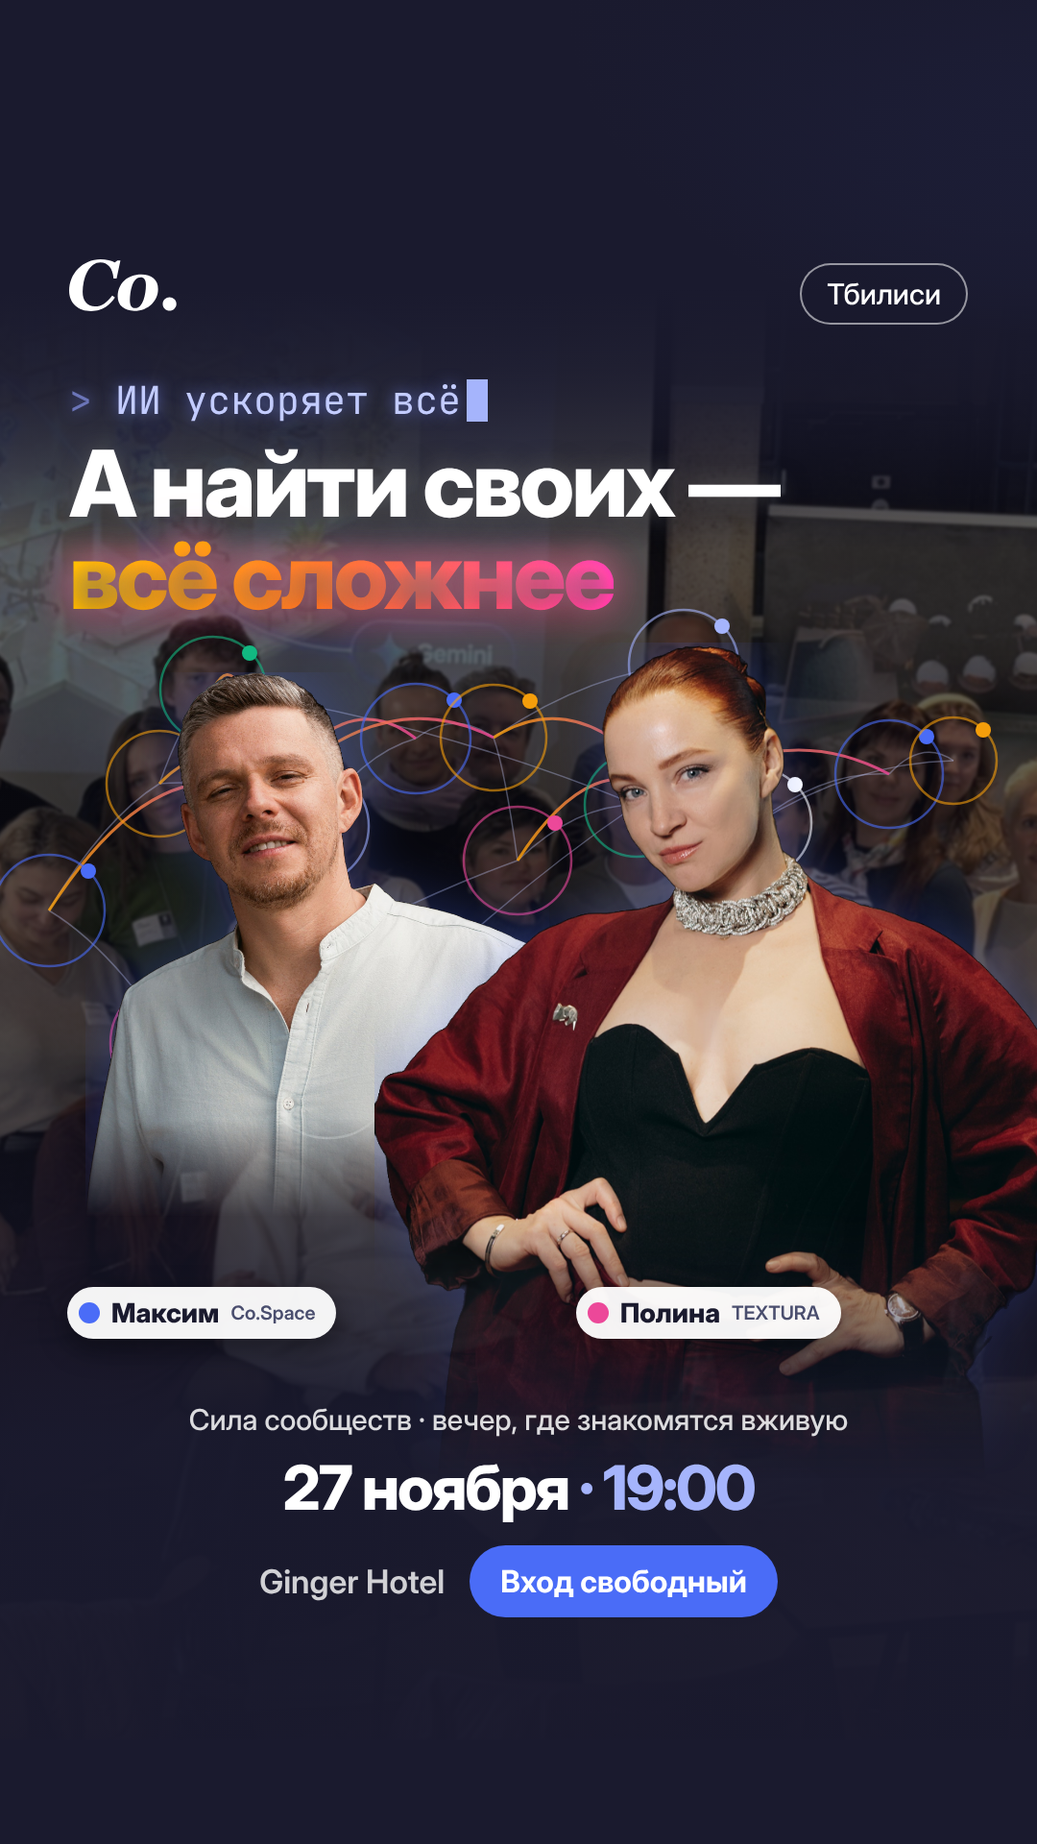
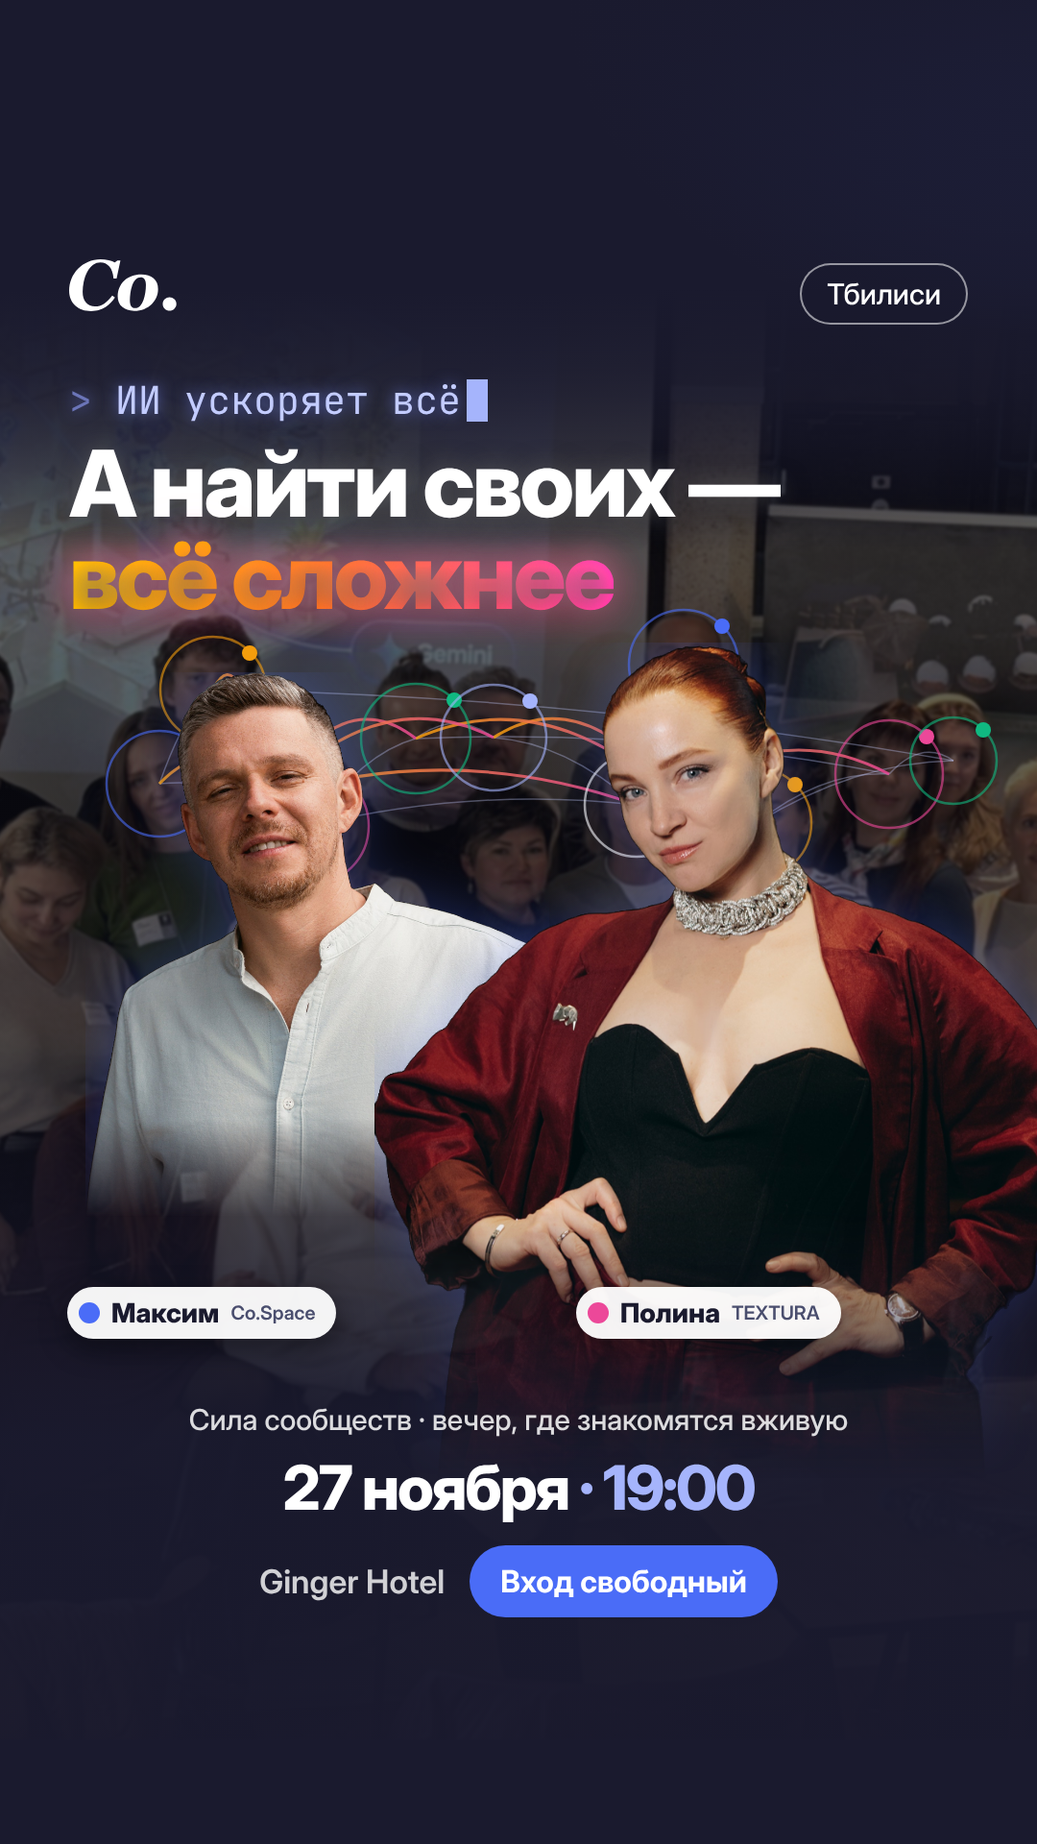
Убраны кружки за фигурами

diff --git a/creatives/src/poster/poster3-4x5.html b/creatives/src/poster/poster3-4x5.html
@@ -29,7 +29,7 @@ h1 em{font-style:normal;background:linear-gradient(90deg,#FFC21A 0%,#FF7A2F 45%,
 .place{font-size:34px;color:rgba(255,255,255,.8);font-weight:600}
 .cta{background:#4A6CF7;border-radius:44px;padding:18px 32px;font-size:32px;font-weight:700}
 </style></head><body><img class="bg" src="group.src.jpg"><div class="shade"></div>
-<svg class="net" width="1080" height="1350" viewBox="0 0 1080 1350"><defs><linearGradient id="gl" x1="0" x2="1"><stop offset="0" stop-color="#F59E0B"/><stop offset="1" stop-color="#EC4899"/></linearGradient></defs><path d="M227,477 Q275,515 323,612" stroke="#C7CEFF" stroke-width="1.5" fill="none" opacity=".35"/><path d="M323,612 Q376,539 428,526" stroke="#C7CEFF" stroke-width="1.5" fill="none" opacity=".35"/><path d="M896,561 Q928,524 960,547" stroke="#C7CEFF" stroke-width="1.5" fill="none" opacity=".35"/><path d="M65,696 Q126,731 188,827" stroke="#C7CEFF" stroke-width="1.5" fill="none" opacity=".35"/><path d="M529,646 Q587,589 646,591" stroke="#C7CEFF" stroke-width="1.5" fill="none" opacity=".35"/><path d="M646,591 Q706,570 765,609" stroke="#C7CEFF" stroke-width="1.5" fill="none" opacity=".35"/><path d="M188,827 Q264,811 341,855" stroke="#C7CEFF" stroke-width="1.5" fill="none" opacity=".35"/><path d="M174,570 Q201,494 227,477" stroke="#C7CEFF" stroke-width="1.5" fill="none" opacity=".35"/><path d="M188,827 Q358,706 529,646" stroke="#C7CEFF" stroke-width="1.5" fill="none" opacity=".35"/><path d="M505,525 Q599,458 693,452" stroke="#C7CEFF" stroke-width="1.5" fill="none" opacity=".35"/><path d="M323,612 Q332,704 341,855" stroke="#C7CEFF" stroke-width="1.5" fill="none" opacity=".35"/><path d="M227,477 Q437,504 646,591" stroke="#C7CEFF" stroke-width="1.5" fill="none" opacity=".35"/><path d="M341,855 Q494,693 646,591" stroke="#C7CEFF" stroke-width="1.5" fill="none" opacity=".35"/><path d="M65,696 Q120,603 174,570" stroke="#C7CEFF" stroke-width="1.5" fill="none" opacity=".35"/><path d="M646,591 Q670,492 693,452" stroke="#C7CEFF" stroke-width="1.5" fill="none" opacity=".35"/><path d="M693,452 Q729,501 765,609" stroke="#C7CEFF" stroke-width="1.5" fill="none" opacity=".35"/><path d="M765,609 Q862,548 960,547" stroke="#C7CEFF" stroke-width="1.5" fill="none" opacity=".35"/><path d="M428,526 Q466,495 505,525" stroke="#C7CEFF" stroke-width="1.5" fill="none" opacity=".35"/><path d="M174,570 Q249,561 323,612" stroke="#C7CEFF" stroke-width="1.5" fill="none" opacity=".35"/><path d="M765,609 Q831,555 896,561" stroke="#C7CEFF" stroke-width="1.5" fill="none" opacity=".35"/><path d="M505,525 Q517,555 529,646" stroke="#C7CEFF" stroke-width="1.5" fill="none" opacity=".35"/><path d="M690,580 Q668,520 646,591" stroke="url(#gl)" stroke-width="3" fill="none" opacity=".85"/><path d="M690,580 Q728,520 765,609" stroke="url(#gl)" stroke-width="3" fill="none" opacity=".85"/><path d="M690,580 Q691,392 693,452" stroke="url(#gl)" stroke-width="3" fill="none" opacity=".85"/><path d="M690,580 Q609,520 529,646" stroke="url(#gl)" stroke-width="3" fill="none" opacity=".85"/><path d="M690,580 Q597,465 505,525" stroke="url(#gl)" stroke-width="3" fill="none" opacity=".85"/><path d="M690,580 Q793,501 896,561" stroke="url(#gl)" stroke-width="3" fill="none" opacity=".85"/><path d="M290,580 Q307,520 323,612" stroke="url(#gl)" stroke-width="3" fill="none" opacity=".85"/><path d="M290,580 Q232,510 174,570" stroke="url(#gl)" stroke-width="3" fill="none" opacity=".85"/><path d="M290,580 Q259,417 227,477" stroke="url(#gl)" stroke-width="3" fill="none" opacity=".85"/><path d="M290,580 Q359,466 428,526" stroke="url(#gl)" stroke-width="3" fill="none" opacity=".85"/><path d="M290,580 Q397,465 505,525" stroke="url(#gl)" stroke-width="3" fill="none" opacity=".85"/><path d="M290,580 Q409,520 529,646" stroke="url(#gl)" stroke-width="3" fill="none" opacity=".85"/><circle cx="65" cy="696" r="55" fill="none" stroke="#4A6CF7" stroke-width="2.5" opacity=".6"/><circle cx="103" cy="657" r="8" fill="#4A6CF7"/><circle cx="174" cy="570" r="52" fill="none" stroke="#F59E0B" stroke-width="2.5" opacity=".6"/><circle cx="211" cy="534" r="8" fill="#F59E0B"/><circle cx="188" cy="827" r="62" fill="none" stroke="#EC4899" stroke-width="2.5" opacity=".6"/><circle cx="231" cy="783" r="8" fill="#EC4899"/><circle cx="227" cy="477" r="52" fill="none" stroke="#10B981" stroke-width="2.5" opacity=".6"/><circle cx="264" cy="441" r="8" fill="#10B981"/><circle cx="323" cy="612" r="58" fill="none" stroke="#A5B4FC" stroke-width="2.5" opacity=".6"/><circle cx="364" cy="571" r="8" fill="#A5B4FC"/><circle cx="341" cy="855" r="66" fill="none" stroke="#FFFFFF" stroke-width="2.5" opacity=".6"/><circle cx="388" cy="809" r="8" fill="#FFFFFF"/><circle cx="428" cy="526" r="54" fill="none" stroke="#4A6CF7" stroke-width="2.5" opacity=".6"/><circle cx="466" cy="488" r="8" fill="#4A6CF7"/><circle cx="505" cy="525" r="52" fill="none" stroke="#F59E0B" stroke-width="2.5" opacity=".6"/><circle cx="541" cy="488" r="8" fill="#F59E0B"/><circle cx="529" cy="646" r="53" fill="none" stroke="#EC4899" stroke-width="2.5" opacity=".6"/><circle cx="566" cy="609" r="8" fill="#EC4899"/><circle cx="646" cy="591" r="51" fill="none" stroke="#10B981" stroke-width="2.5" opacity=".6"/><circle cx="682" cy="555" r="8" fill="#10B981"/><circle cx="693" cy="452" r="54" fill="none" stroke="#A5B4FC" stroke-width="2.5" opacity=".6"/><circle cx="731" cy="415" r="8" fill="#A5B4FC"/><circle cx="765" cy="609" r="54" fill="none" stroke="#FFFFFF" stroke-width="2.5" opacity=".6"/><circle cx="803" cy="571" r="8" fill="#FFFFFF"/><circle cx="896" cy="561" r="54" fill="none" stroke="#4A6CF7" stroke-width="2.5" opacity=".6"/><circle cx="934" cy="523" r="8" fill="#4A6CF7"/><circle cx="960" cy="547" r="43" fill="none" stroke="#F59E0B" stroke-width="2.5" opacity=".6"/><circle cx="990" cy="517" r="8" fill="#F59E0B"/></svg>
+<svg class="net" width="1080" height="1350" viewBox="0 0 1080 1350"><defs><linearGradient id="gl" x1="0" x2="1"><stop offset="0" stop-color="#F59E0B"/><stop offset="1" stop-color="#EC4899"/></linearGradient></defs><path d="M65,696 Q120,603 174,570" stroke="#C7CEFF" stroke-width="1.5" fill="none" opacity=".35"/><path d="M896,561 Q928,524 960,547" stroke="#C7CEFF" stroke-width="1.5" fill="none" opacity=".35"/><path d="M174,570 Q201,494 227,477" stroke="#C7CEFF" stroke-width="1.5" fill="none" opacity=".35"/><path d="M323,612 Q376,539 428,526" stroke="#C7CEFF" stroke-width="1.5" fill="none" opacity=".35"/><path d="M646,591 Q706,570 765,609" stroke="#C7CEFF" stroke-width="1.5" fill="none" opacity=".35"/><path d="M65,696 Q194,624 323,612" stroke="#C7CEFF" stroke-width="1.5" fill="none" opacity=".35"/><path d="M765,609 Q862,548 960,547" stroke="#C7CEFF" stroke-width="1.5" fill="none" opacity=".35"/><path d="M227,477 Q275,515 323,612" stroke="#C7CEFF" stroke-width="1.5" fill="none" opacity=".35"/><path d="M646,591 Q670,492 693,452" stroke="#C7CEFF" stroke-width="1.5" fill="none" opacity=".35"/><path d="M428,526 Q466,495 505,525" stroke="#C7CEFF" stroke-width="1.5" fill="none" opacity=".35"/><path d="M765,609 Q831,555 896,561" stroke="#C7CEFF" stroke-width="1.5" fill="none" opacity=".35"/><path d="M323,612 Q610,556 896,561" stroke="#C7CEFF" stroke-width="1.5" fill="none" opacity=".35"/><path d="M505,525 Q576,528 646,591" stroke="#C7CEFF" stroke-width="1.5" fill="none" opacity=".35"/><path d="M693,452 Q795,477 896,561" stroke="#C7CEFF" stroke-width="1.5" fill="none" opacity=".35"/><path d="M505,525 Q700,513 896,561" stroke="#C7CEFF" stroke-width="1.5" fill="none" opacity=".35"/><path d="M174,570 Q249,561 323,612" stroke="#C7CEFF" stroke-width="1.5" fill="none" opacity=".35"/><path d="M693,452 Q729,501 765,609" stroke="#C7CEFF" stroke-width="1.5" fill="none" opacity=".35"/><path d="M227,477 Q496,513 765,609" stroke="#C7CEFF" stroke-width="1.5" fill="none" opacity=".35"/><path d="M690,580 Q668,520 646,591" stroke="url(#gl)" stroke-width="3" fill="none" opacity=".85"/><path d="M690,580 Q728,520 765,609" stroke="url(#gl)" stroke-width="3" fill="none" opacity=".85"/><path d="M690,580 Q691,392 693,452" stroke="url(#gl)" stroke-width="3" fill="none" opacity=".85"/><path d="M690,580 Q597,465 505,525" stroke="url(#gl)" stroke-width="3" fill="none" opacity=".85"/><path d="M690,580 Q793,501 896,561" stroke="url(#gl)" stroke-width="3" fill="none" opacity=".85"/><path d="M690,580 Q559,466 428,526" stroke="url(#gl)" stroke-width="3" fill="none" opacity=".85"/><path d="M290,580 Q307,520 323,612" stroke="url(#gl)" stroke-width="3" fill="none" opacity=".85"/><path d="M290,580 Q232,510 174,570" stroke="url(#gl)" stroke-width="3" fill="none" opacity=".85"/><path d="M290,580 Q259,417 227,477" stroke="url(#gl)" stroke-width="3" fill="none" opacity=".85"/><path d="M290,580 Q359,466 428,526" stroke="url(#gl)" stroke-width="3" fill="none" opacity=".85"/><path d="M290,580 Q397,465 505,525" stroke="url(#gl)" stroke-width="3" fill="none" opacity=".85"/><path d="M290,580 Q177,520 65,696" stroke="url(#gl)" stroke-width="3" fill="none" opacity=".85"/><circle cx="65" cy="696" r="55" fill="none" stroke="#4A6CF7" stroke-width="2.5" opacity=".6"/><circle cx="103" cy="657" r="8" fill="#4A6CF7"/><circle cx="174" cy="570" r="52" fill="none" stroke="#F59E0B" stroke-width="2.5" opacity=".6"/><circle cx="211" cy="534" r="8" fill="#F59E0B"/><circle cx="227" cy="477" r="52" fill="none" stroke="#EC4899" stroke-width="2.5" opacity=".6"/><circle cx="264" cy="441" r="8" fill="#EC4899"/><circle cx="323" cy="612" r="58" fill="none" stroke="#10B981" stroke-width="2.5" opacity=".6"/><circle cx="364" cy="571" r="8" fill="#10B981"/><circle cx="428" cy="526" r="54" fill="none" stroke="#A5B4FC" stroke-width="2.5" opacity=".6"/><circle cx="466" cy="488" r="8" fill="#A5B4FC"/><circle cx="505" cy="525" r="52" fill="none" stroke="#FFFFFF" stroke-width="2.5" opacity=".6"/><circle cx="541" cy="488" r="8" fill="#FFFFFF"/><circle cx="646" cy="591" r="51" fill="none" stroke="#4A6CF7" stroke-width="2.5" opacity=".6"/><circle cx="682" cy="555" r="8" fill="#4A6CF7"/><circle cx="693" cy="452" r="54" fill="none" stroke="#F59E0B" stroke-width="2.5" opacity=".6"/><circle cx="731" cy="415" r="8" fill="#F59E0B"/><circle cx="765" cy="609" r="54" fill="none" stroke="#EC4899" stroke-width="2.5" opacity=".6"/><circle cx="803" cy="571" r="8" fill="#EC4899"/><circle cx="896" cy="561" r="54" fill="none" stroke="#10B981" stroke-width="2.5" opacity=".6"/><circle cx="934" cy="523" r="8" fill="#10B981"/><circle cx="960" cy="547" r="43" fill="none" stroke="#A5B4FC" stroke-width="2.5" opacity=".6"/><circle cx="990" cy="517" r="8" fill="#A5B4FC"/></svg>
 <div class="person" style="left:115px;top:461px;height:521px;-webkit-mask-image:linear-gradient(180deg,#000 82%,transparent 100%)"><img src="max_cut.png"></div><div class="person" style="left:405px;top:432px;height:870px;"><img src="polina_cut.png"></div>
 <div class="name" style="left:600px;top:1010px"><i style="background:#EC4899"></i>Полина <small>TEXTURA</small></div>
 <div class="name" style="left:90px;top:1010px"><i style="background:#4A6CF7"></i>Максим <small>Co.Space</small></div>

diff --git a/creatives/src/poster/poster3-9x16.html b/creatives/src/poster/poster3-9x16.html
@@ -29,7 +29,7 @@ h1 em{font-style:normal;background:linear-gradient(90deg,#FFC21A 0%,#FF7A2F 45%,
 .place{font-size:34px;color:rgba(255,255,255,.8);font-weight:600}
 .cta{background:#4A6CF7;border-radius:44px;padding:18px 32px;font-size:32px;font-weight:700}
 </style></head><body><img class="bg" src="group.src.jpg"><div class="shade"></div>
-<svg class="net" width="1080" height="1920" viewBox="0 0 1080 1920"><defs><linearGradient id="gl" x1="0" x2="1"><stop offset="0" stop-color="#F59E0B"/><stop offset="1" stop-color="#EC4899"/></linearGradient></defs><path d="M222,718 Q272,759 323,860" stroke="#C7CEFF" stroke-width="1.5" fill="none" opacity=".35"/><path d="M323,860 Q378,784 433,769" stroke="#C7CEFF" stroke-width="1.5" fill="none" opacity=".35"/><path d="M926,806 Q960,769 993,792" stroke="#C7CEFF" stroke-width="1.5" fill="none" opacity=".35"/><path d="M51,948 Q116,987 180,1086" stroke="#C7CEFF" stroke-width="1.5" fill="none" opacity=".35"/><path d="M539,896 Q601,837 663,838" stroke="#C7CEFF" stroke-width="1.5" fill="none" opacity=".35"/><path d="M663,838 Q726,818 788,857" stroke="#C7CEFF" stroke-width="1.5" fill="none" opacity=".35"/><path d="M180,1086 Q261,1071 342,1116" stroke="#C7CEFF" stroke-width="1.5" fill="none" opacity=".35"/><path d="M166,816 Q194,737 222,718" stroke="#C7CEFF" stroke-width="1.5" fill="none" opacity=".35"/><path d="M180,1086 Q360,961 539,896" stroke="#C7CEFF" stroke-width="1.5" fill="none" opacity=".35"/><path d="M514,768 Q613,700 712,692" stroke="#C7CEFF" stroke-width="1.5" fill="none" opacity=".35"/><path d="M323,860 Q332,958 342,1116" stroke="#C7CEFF" stroke-width="1.5" fill="none" opacity=".35"/><path d="M222,718 Q442,748 663,838" stroke="#C7CEFF" stroke-width="1.5" fill="none" opacity=".35"/><path d="M342,1116 Q502,947 663,838" stroke="#C7CEFF" stroke-width="1.5" fill="none" opacity=".35"/><path d="M51,948 Q108,852 166,816" stroke="#C7CEFF" stroke-width="1.5" fill="none" opacity=".35"/><path d="M663,838 Q688,735 712,692" stroke="#C7CEFF" stroke-width="1.5" fill="none" opacity=".35"/><path d="M712,692 Q750,744 788,857" stroke="#C7CEFF" stroke-width="1.5" fill="none" opacity=".35"/><path d="M788,857 Q890,794 993,792" stroke="#C7CEFF" stroke-width="1.5" fill="none" opacity=".35"/><path d="M433,769 Q474,738 514,768" stroke="#C7CEFF" stroke-width="1.5" fill="none" opacity=".35"/><path d="M166,816 Q244,808 323,860" stroke="#C7CEFF" stroke-width="1.5" fill="none" opacity=".35"/><path d="M788,857 Q857,802 926,806" stroke="#C7CEFF" stroke-width="1.5" fill="none" opacity=".35"/><path d="M514,768 Q526,802 539,896" stroke="#C7CEFF" stroke-width="1.5" fill="none" opacity=".35"/><path d="M700,830 Q682,770 663,838" stroke="url(#gl)" stroke-width="3" fill="none" opacity=".85"/><path d="M700,830 Q744,770 788,857" stroke="url(#gl)" stroke-width="3" fill="none" opacity=".85"/><path d="M700,830 Q706,632 712,692" stroke="url(#gl)" stroke-width="3" fill="none" opacity=".85"/><path d="M700,830 Q620,770 539,896" stroke="url(#gl)" stroke-width="3" fill="none" opacity=".85"/><path d="M700,830 Q607,708 514,768" stroke="url(#gl)" stroke-width="3" fill="none" opacity=".85"/><path d="M700,830 Q813,746 926,806" stroke="url(#gl)" stroke-width="3" fill="none" opacity=".85"/><path d="M280,830 Q302,770 323,860" stroke="url(#gl)" stroke-width="3" fill="none" opacity=".85"/><path d="M280,830 Q223,756 166,816" stroke="url(#gl)" stroke-width="3" fill="none" opacity=".85"/><path d="M280,830 Q251,658 222,718" stroke="url(#gl)" stroke-width="3" fill="none" opacity=".85"/><path d="M280,830 Q356,709 433,769" stroke="url(#gl)" stroke-width="3" fill="none" opacity=".85"/><path d="M280,830 Q397,708 514,768" stroke="url(#gl)" stroke-width="3" fill="none" opacity=".85"/><path d="M280,830 Q166,770 51,948" stroke="url(#gl)" stroke-width="3" fill="none" opacity=".85"/><circle cx="51" cy="948" r="58" fill="none" stroke="#4A6CF7" stroke-width="2.5" opacity=".6"/><circle cx="92" cy="907" r="8" fill="#4A6CF7"/><circle cx="166" cy="816" r="55" fill="none" stroke="#F59E0B" stroke-width="2.5" opacity=".6"/><circle cx="204" cy="778" r="8" fill="#F59E0B"/><circle cx="180" cy="1086" r="65" fill="none" stroke="#EC4899" stroke-width="2.5" opacity=".6"/><circle cx="226" cy="1040" r="8" fill="#EC4899"/><circle cx="222" cy="718" r="55" fill="none" stroke="#10B981" stroke-width="2.5" opacity=".6"/><circle cx="260" cy="680" r="8" fill="#10B981"/><circle cx="323" cy="860" r="61" fill="none" stroke="#A5B4FC" stroke-width="2.5" opacity=".6"/><circle cx="366" cy="817" r="8" fill="#A5B4FC"/><circle cx="342" cy="1116" r="69" fill="none" stroke="#FFFFFF" stroke-width="2.5" opacity=".6"/><circle cx="390" cy="1068" r="8" fill="#FFFFFF"/><circle cx="433" cy="769" r="57" fill="none" stroke="#4A6CF7" stroke-width="2.5" opacity=".6"/><circle cx="473" cy="729" r="8" fill="#4A6CF7"/><circle cx="514" cy="768" r="55" fill="none" stroke="#F59E0B" stroke-width="2.5" opacity=".6"/><circle cx="552" cy="730" r="8" fill="#F59E0B"/><circle cx="539" cy="896" r="56" fill="none" stroke="#EC4899" stroke-width="2.5" opacity=".6"/><circle cx="578" cy="857" r="8" fill="#EC4899"/><circle cx="663" cy="838" r="54" fill="none" stroke="#10B981" stroke-width="2.5" opacity=".6"/><circle cx="701" cy="800" r="8" fill="#10B981"/><circle cx="712" cy="692" r="57" fill="none" stroke="#A5B4FC" stroke-width="2.5" opacity=".6"/><circle cx="752" cy="652" r="8" fill="#A5B4FC"/><circle cx="788" cy="857" r="57" fill="none" stroke="#FFFFFF" stroke-width="2.5" opacity=".6"/><circle cx="828" cy="817" r="8" fill="#FFFFFF"/><circle cx="926" cy="806" r="56" fill="none" stroke="#4A6CF7" stroke-width="2.5" opacity=".6"/><circle cx="965" cy="767" r="8" fill="#4A6CF7"/><circle cx="993" cy="792" r="45" fill="none" stroke="#F59E0B" stroke-width="2.5" opacity=".6"/><circle cx="1024" cy="760" r="8" fill="#F59E0B"/></svg>
+<svg class="net" width="1080" height="1920" viewBox="0 0 1080 1920"><defs><linearGradient id="gl" x1="0" x2="1"><stop offset="0" stop-color="#F59E0B"/><stop offset="1" stop-color="#EC4899"/></linearGradient></defs><path d="M166,816 Q194,737 222,718" stroke="#C7CEFF" stroke-width="1.5" fill="none" opacity=".35"/><path d="M433,769 Q680,758 926,806" stroke="#C7CEFF" stroke-width="1.5" fill="none" opacity=".35"/><path d="M222,718 Q272,759 323,860" stroke="#C7CEFF" stroke-width="1.5" fill="none" opacity=".35"/><path d="M433,769 Q474,738 514,768" stroke="#C7CEFF" stroke-width="1.5" fill="none" opacity=".35"/><path d="M663,838 Q726,818 788,857" stroke="#C7CEFF" stroke-width="1.5" fill="none" opacity=".35"/><path d="M323,860 Q378,784 433,769" stroke="#C7CEFF" stroke-width="1.5" fill="none" opacity=".35"/><path d="M712,692 Q750,744 788,857" stroke="#C7CEFF" stroke-width="1.5" fill="none" opacity=".35"/><path d="M166,816 Q244,808 323,860" stroke="#C7CEFF" stroke-width="1.5" fill="none" opacity=".35"/><path d="M514,768 Q588,773 663,838" stroke="#C7CEFF" stroke-width="1.5" fill="none" opacity=".35"/><path d="M926,806 Q960,769 993,792" stroke="#C7CEFF" stroke-width="1.5" fill="none" opacity=".35"/><path d="M663,838 Q688,735 712,692" stroke="#C7CEFF" stroke-width="1.5" fill="none" opacity=".35"/><path d="M788,857 Q890,794 993,792" stroke="#C7CEFF" stroke-width="1.5" fill="none" opacity=".35"/><path d="M323,860 Q493,819 663,838" stroke="#C7CEFF" stroke-width="1.5" fill="none" opacity=".35"/><path d="M222,718 Q608,725 993,792" stroke="#C7CEFF" stroke-width="1.5" fill="none" opacity=".35"/><path d="M788,857 Q857,802 926,806" stroke="#C7CEFF" stroke-width="1.5" fill="none" opacity=".35"/><path d="M700,830 Q682,770 663,838" stroke="url(#gl)" stroke-width="3" fill="none" opacity=".85"/><path d="M700,830 Q744,770 788,857" stroke="url(#gl)" stroke-width="3" fill="none" opacity=".85"/><path d="M700,830 Q706,632 712,692" stroke="url(#gl)" stroke-width="3" fill="none" opacity=".85"/><path d="M700,830 Q607,708 514,768" stroke="url(#gl)" stroke-width="3" fill="none" opacity=".85"/><path d="M700,830 Q813,746 926,806" stroke="url(#gl)" stroke-width="3" fill="none" opacity=".85"/><path d="M700,830 Q566,709 433,769" stroke="url(#gl)" stroke-width="3" fill="none" opacity=".85"/><path d="M280,830 Q302,770 323,860" stroke="url(#gl)" stroke-width="3" fill="none" opacity=".85"/><path d="M280,830 Q223,756 166,816" stroke="url(#gl)" stroke-width="3" fill="none" opacity=".85"/><path d="M280,830 Q251,658 222,718" stroke="url(#gl)" stroke-width="3" fill="none" opacity=".85"/><path d="M280,830 Q356,709 433,769" stroke="url(#gl)" stroke-width="3" fill="none" opacity=".85"/><path d="M280,830 Q397,708 514,768" stroke="url(#gl)" stroke-width="3" fill="none" opacity=".85"/><path d="M280,830 Q472,770 663,838" stroke="url(#gl)" stroke-width="3" fill="none" opacity=".85"/><circle cx="166" cy="816" r="55" fill="none" stroke="#4A6CF7" stroke-width="2.5" opacity=".6"/><circle cx="204" cy="778" r="8" fill="#4A6CF7"/><circle cx="222" cy="718" r="55" fill="none" stroke="#F59E0B" stroke-width="2.5" opacity=".6"/><circle cx="260" cy="680" r="8" fill="#F59E0B"/><circle cx="323" cy="860" r="61" fill="none" stroke="#EC4899" stroke-width="2.5" opacity=".6"/><circle cx="366" cy="817" r="8" fill="#EC4899"/><circle cx="433" cy="769" r="57" fill="none" stroke="#10B981" stroke-width="2.5" opacity=".6"/><circle cx="473" cy="729" r="8" fill="#10B981"/><circle cx="514" cy="768" r="55" fill="none" stroke="#A5B4FC" stroke-width="2.5" opacity=".6"/><circle cx="552" cy="730" r="8" fill="#A5B4FC"/><circle cx="663" cy="838" r="54" fill="none" stroke="#FFFFFF" stroke-width="2.5" opacity=".6"/><circle cx="701" cy="800" r="8" fill="#FFFFFF"/><circle cx="712" cy="692" r="57" fill="none" stroke="#4A6CF7" stroke-width="2.5" opacity=".6"/><circle cx="752" cy="652" r="8" fill="#4A6CF7"/><circle cx="788" cy="857" r="57" fill="none" stroke="#F59E0B" stroke-width="2.5" opacity=".6"/><circle cx="828" cy="817" r="8" fill="#F59E0B"/><circle cx="926" cy="806" r="56" fill="none" stroke="#EC4899" stroke-width="2.5" opacity=".6"/><circle cx="965" cy="767" r="8" fill="#EC4899"/><circle cx="993" cy="792" r="45" fill="none" stroke="#10B981" stroke-width="2.5" opacity=".6"/><circle cx="1024" cy="760" r="8" fill="#10B981"/></svg>
 <div class="person" style="left:89px;top:700px;height:567px;-webkit-mask-image:linear-gradient(180deg,#000 82%,transparent 100%)"><img src="max_cut.png"></div><div class="person" style="left:390px;top:669px;height:946px;"><img src="polina_cut.png"></div>
 <div class="name" style="left:600px;top:1340px"><i style="background:#EC4899"></i>Полина <small>TEXTURA</small></div>
 <div class="name" style="left:70px;top:1340px"><i style="background:#4A6CF7"></i>Максим <small>Co.Space</small></div>

diff --git a/creatives/src/poster/build_poster3.py b/creatives/src/poster/build_poster3.py
@@ -66,6 +66,13 @@ def net_svg(L):
     s, ox, oy = L["s"], L["ox"], L["oy"]
     pts = [(x * K * s - ox, y * K * s - oy) for x, y in FACES]
     keep = [i for i, (x, y) in enumerate(pts) if 30 < x < L['W'] - 30 and 0 < y < L['H']]
+    def hidden(x, y):
+        for q, c in ((L["pol"], PCUT), (L["mx"], MCUT)):
+            w = q["h"] * c[0] / c[1]
+            if q["left"] - 40 < x < q["left"] + w + 40 and y > q["top"] + q["h"] * .3:
+                return True
+        return False
+    keep = [i for i in keep if not hidden(*pts[i])]
     FW = [FWID[i] for i in keep]
     pts = [pts[i] for i in keep]
     out = []
